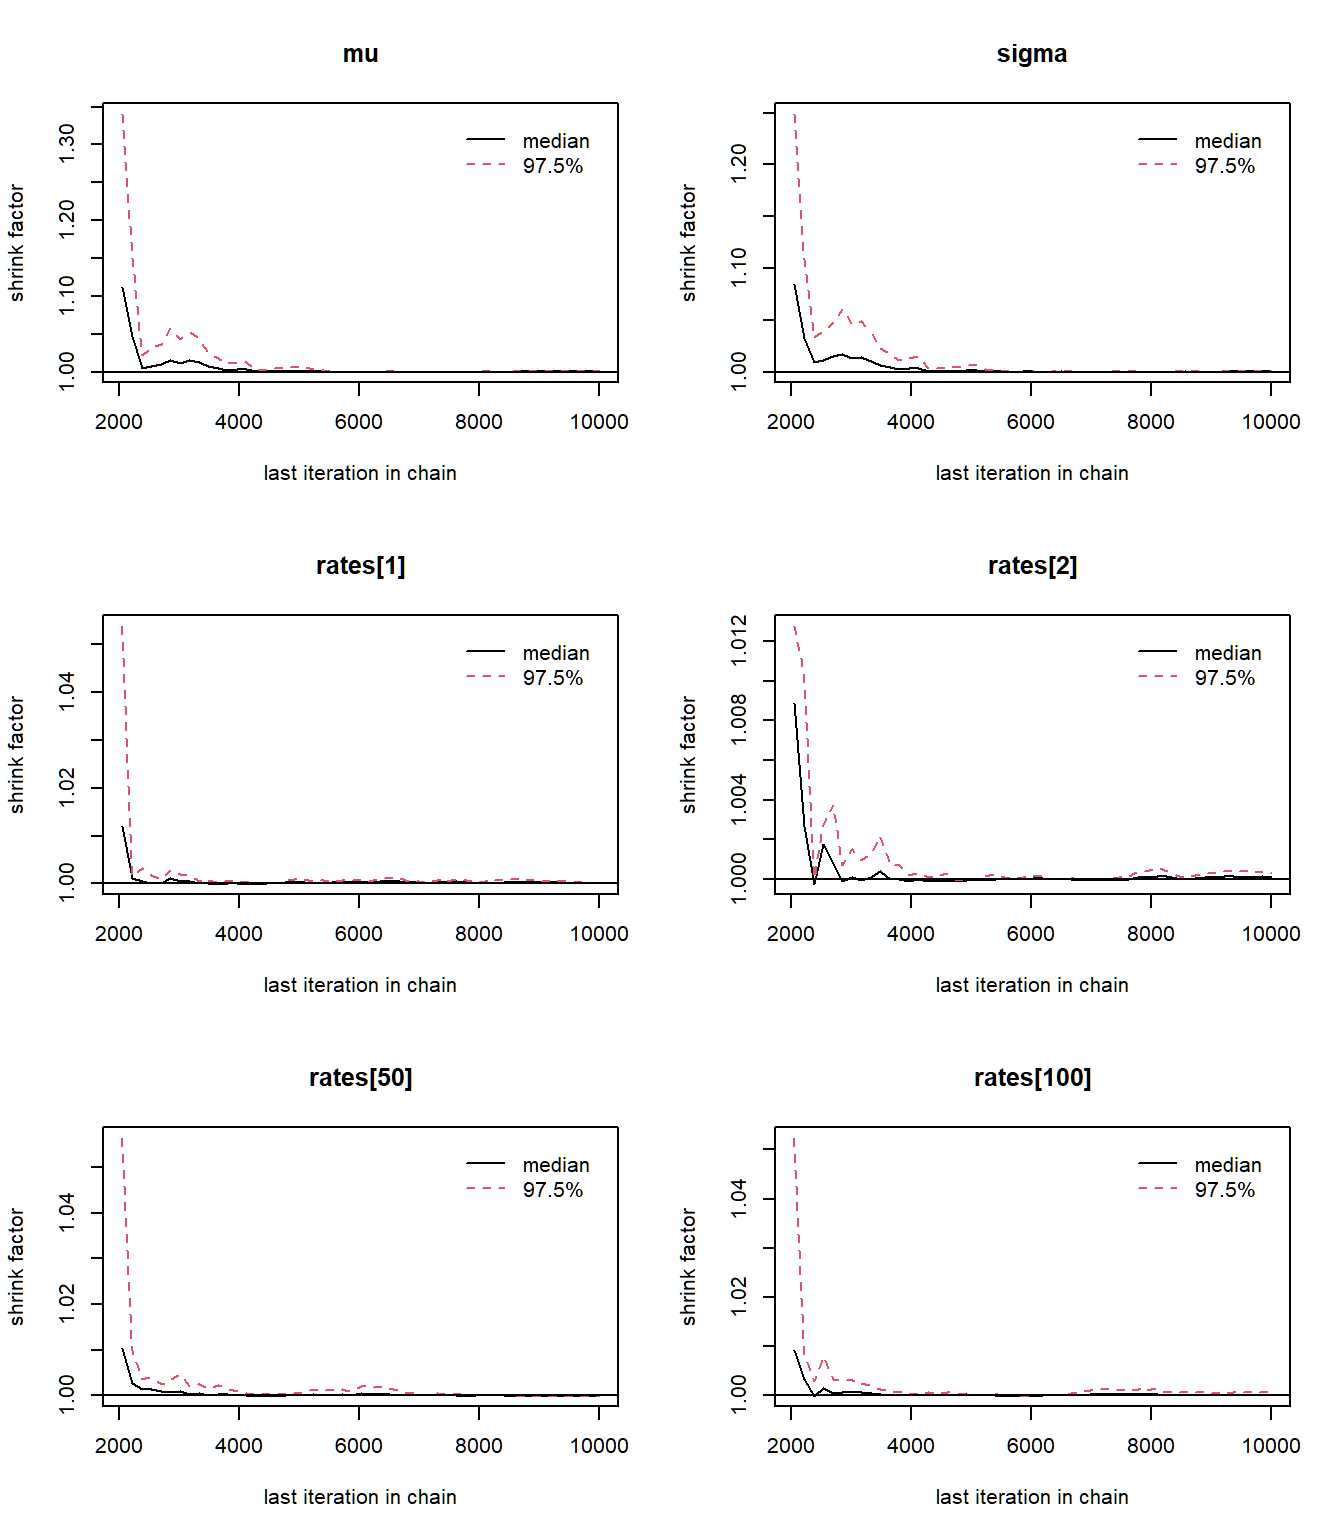
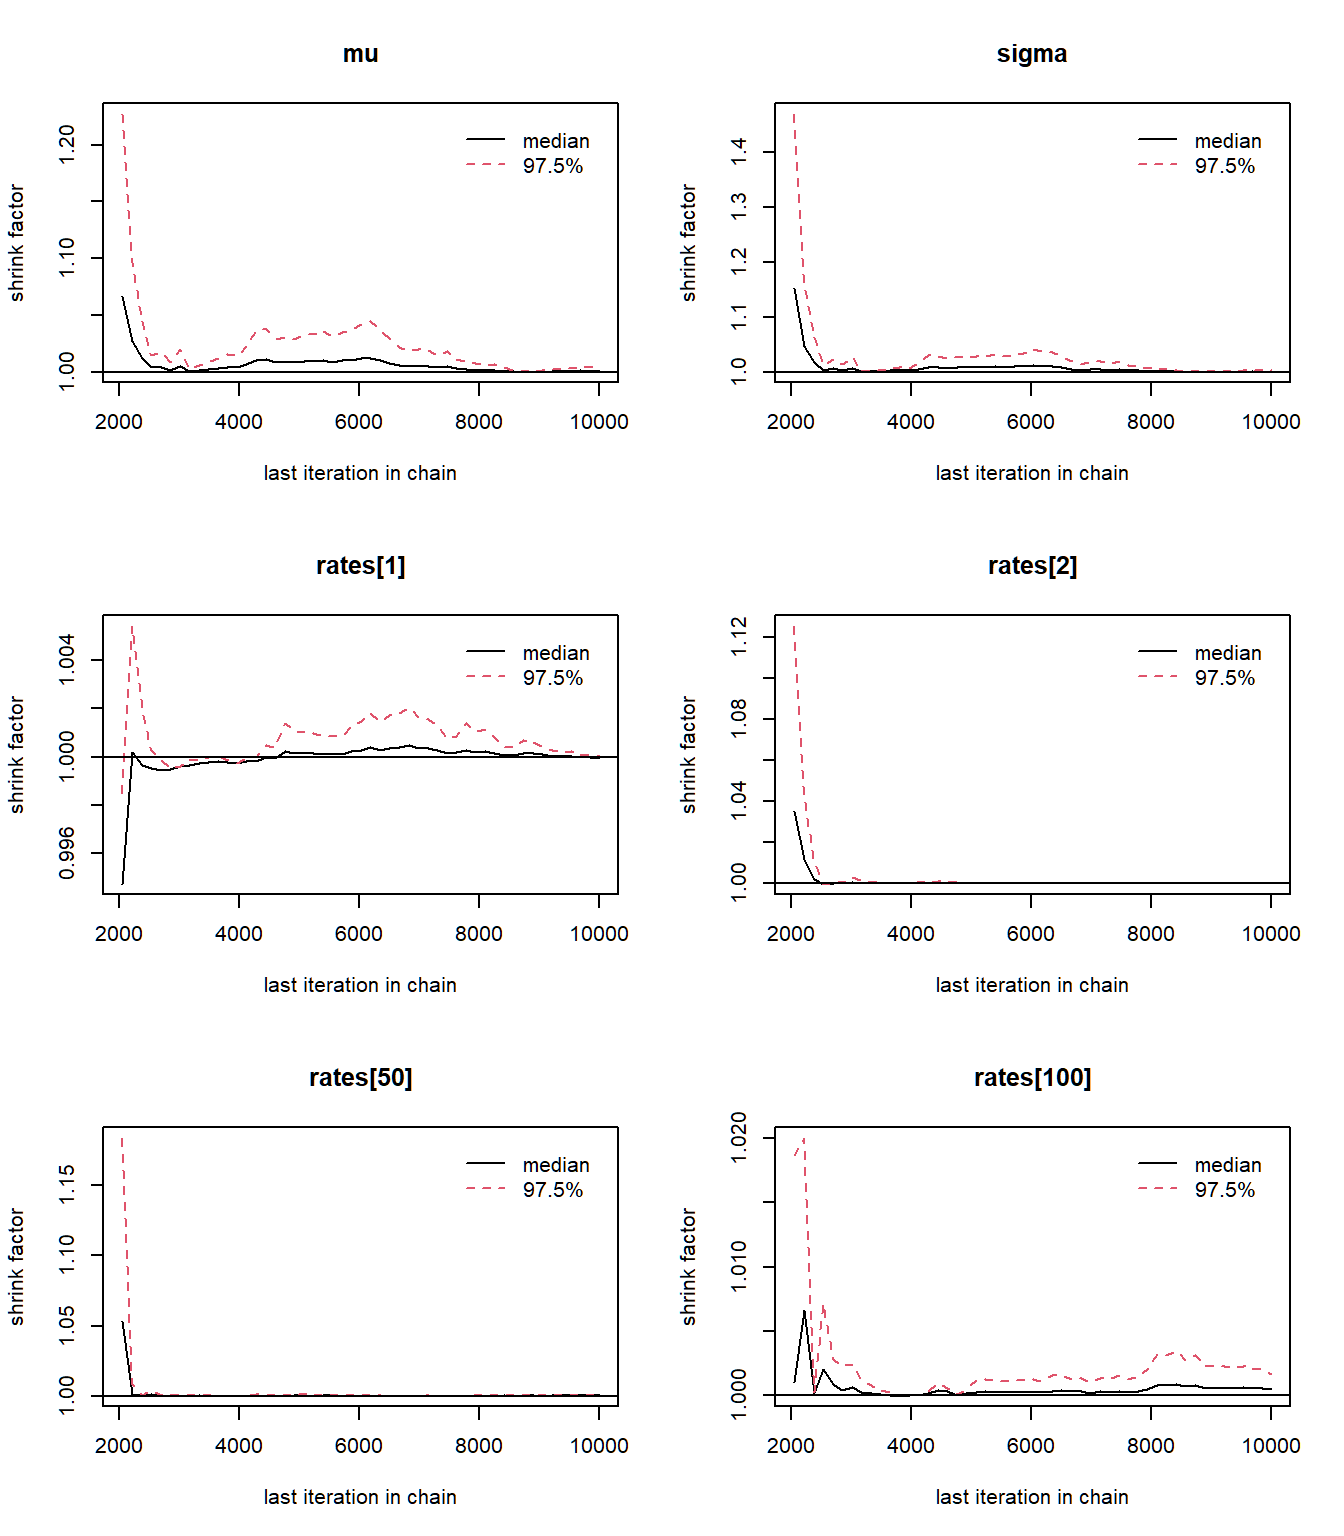
underreport

diff --git a/docs/blogs/AE Counts/AE Underreporting reveal JS.html b/docs/blogs/AE Counts/AE Underreporting reveal JS.html
@@ -595,51 +595,51 @@ Figure&nbsp;1: Graphical representation of the adverse event reporting model
 <tbody>
 <tr class="odd">
 <td style="text-align: left;">mu</td>
-<td style="text-align: right;">14.896269</td>
-<td style="text-align: right;">1.0214501</td>
-<td style="text-align: right;">13.003999</td>
-<td style="text-align: right;">14.846710</td>
-<td style="text-align: right;">17.024250</td>
+<td style="text-align: right;">14.865145</td>
+<td style="text-align: right;">1.0174533</td>
+<td style="text-align: right;">13.011505</td>
+<td style="text-align: right;">14.827369</td>
+<td style="text-align: right;">16.977812</td>
 <td style="text-align: right;">1</td>
-<td style="text-align: right;">3866</td>
+<td style="text-align: right;">3916</td>
 </tr>
 <tr class="even">
 <td style="text-align: left;">sigma</td>
-<td style="text-align: right;">11.156671</td>
-<td style="text-align: right;">1.0564364</td>
-<td style="text-align: right;">9.329684</td>
-<td style="text-align: right;">11.078587</td>
-<td style="text-align: right;">13.466712</td>
+<td style="text-align: right;">11.126217</td>
+<td style="text-align: right;">1.0420494</td>
+<td style="text-align: right;">9.287506</td>
+<td style="text-align: right;">11.051209</td>
+<td style="text-align: right;">13.366332</td>
 <td style="text-align: right;">1</td>
-<td style="text-align: right;">3798</td>
+<td style="text-align: right;">3832</td>
 </tr>
 <tr class="odd">
 <td style="text-align: left;">rates[1]</td>
-<td style="text-align: right;">3.199235</td>
-<td style="text-align: right;">1.2388734</td>
-<td style="text-align: right;">1.255591</td>
-<td style="text-align: right;">3.038364</td>
-<td style="text-align: right;">6.074031</td>
+<td style="text-align: right;">3.205302</td>
+<td style="text-align: right;">1.2303922</td>
+<td style="text-align: right;">1.258579</td>
+<td style="text-align: right;">3.056531</td>
+<td style="text-align: right;">6.029009</td>
 <td style="text-align: right;">1</td>
-<td style="text-align: right;">23711</td>
+<td style="text-align: right;">24441</td>
 </tr>
 <tr class="even">
 <td style="text-align: left;">rates[2]</td>
-<td style="text-align: right;">3.057433</td>
-<td style="text-align: right;">0.6175904</td>
-<td style="text-align: right;">1.975681</td>
-<td style="text-align: right;">3.016547</td>
-<td style="text-align: right;">4.389065</td>
+<td style="text-align: right;">3.060811</td>
+<td style="text-align: right;">0.6133531</td>
+<td style="text-align: right;">1.976420</td>
+<td style="text-align: right;">3.016414</td>
+<td style="text-align: right;">4.391981</td>
 <td style="text-align: right;">1</td>
 <td style="text-align: right;">24000</td>
 </tr>
 <tr class="odd">
 <td style="text-align: left;">rates[3]</td>
-<td style="text-align: right;">6.051234</td>
-<td style="text-align: right;">1.6840769</td>
-<td style="text-align: right;">3.203455</td>
-<td style="text-align: right;">5.899897</td>
-<td style="text-align: right;">9.719117</td>
+<td style="text-align: right;">6.048795</td>
+<td style="text-align: right;">1.7103338</td>
+<td style="text-align: right;">3.196660</td>
+<td style="text-align: right;">5.888936</td>
+<td style="text-align: right;">9.888967</td>
 <td style="text-align: right;">1</td>
 <td style="text-align: right;">24000</td>
 </tr>
@@ -679,58 +679,58 @@ Figure&nbsp;1: Graphical representation of the adverse event reporting model
 <tbody>
 <tr class="odd">
 <td style="text-align: right;">3030</td>
-<td style="text-align: right;">0.4749442</td>
-<td style="text-align: right;">0.2174250</td>
-<td style="text-align: right;">0.0039583</td>
+<td style="text-align: right;">0.4758644</td>
+<td style="text-align: right;">0.2185026</td>
+<td style="text-align: right;">0.0034167</td>
 <td style="text-align: left;">(0,1,2)</td>
 </tr>
 <tr class="even">
 <td style="text-align: right;">3036</td>
-<td style="text-align: right;">0.9247334</td>
-<td style="text-align: right;">0.4755211</td>
-<td style="text-align: right;">0.0124583</td>
+<td style="text-align: right;">0.9221665</td>
+<td style="text-align: right;">0.4743262</td>
+<td style="text-align: right;">0.0118333</td>
 <td style="text-align: left;">(0,1)</td>
 </tr>
 <tr class="odd">
 <td style="text-align: right;">3037</td>
-<td style="text-align: right;">1.3276611</td>
-<td style="text-align: right;">0.5098177</td>
-<td style="text-align: right;">0.0225417</td>
+<td style="text-align: right;">1.3235175</td>
+<td style="text-align: right;">0.5127629</td>
+<td style="text-align: right;">0.0202917</td>
 <td style="text-align: left;">(1,0,3)</td>
 </tr>
 <tr class="even">
 <td style="text-align: right;">3046</td>
-<td style="text-align: right;">1.6050622</td>
-<td style="text-align: right;">1.2009269</td>
-<td style="text-align: right;">0.0347083</td>
+<td style="text-align: right;">1.5993490</td>
+<td style="text-align: right;">1.2102722</td>
+<td style="text-align: right;">0.0327083</td>
 <td style="text-align: left;">(0)</td>
 </tr>
 <tr class="odd">
 <td style="text-align: right;">3035</td>
-<td style="text-align: right;">2.2491712</td>
-<td style="text-align: right;">1.0224367</td>
-<td style="text-align: right;">0.0522500</td>
+<td style="text-align: right;">2.2591444</td>
+<td style="text-align: right;">1.0327427</td>
+<td style="text-align: right;">0.0509583</td>
 <td style="text-align: left;">(0,3)</td>
 </tr>
 <tr class="even">
 <td style="text-align: right;">3032</td>
-<td style="text-align: right;">2.2570592</td>
-<td style="text-align: right;">1.0235818</td>
-<td style="text-align: right;">0.0529167</td>
+<td style="text-align: right;">2.2550195</td>
+<td style="text-align: right;">1.0260417</td>
+<td style="text-align: right;">0.0515417</td>
 <td style="text-align: left;">(3,0)</td>
 </tr>
 <tr class="odd">
 <td style="text-align: right;">3018</td>
-<td style="text-align: right;">2.6214251</td>
-<td style="text-align: right;">0.8041643</td>
-<td style="text-align: right;">0.0654583</td>
+<td style="text-align: right;">2.6190009</td>
+<td style="text-align: right;">0.8058113</td>
+<td style="text-align: right;">0.0647917</td>
 <td style="text-align: left;">(6,1,2,0)</td>
 </tr>
 <tr class="even">
 <td style="text-align: right;">3039</td>
-<td style="text-align: right;">2.7371974</td>
-<td style="text-align: right;">1.1538116</td>
-<td style="text-align: right;">0.0702500</td>
+<td style="text-align: right;">2.7303529</td>
+<td style="text-align: right;">1.1286141</td>
+<td style="text-align: right;">0.0702917</td>
 <td style="text-align: left;">(3,1)</td>
 </tr>
 </tbody>
@@ -758,7 +758,7 @@ Figure&nbsp;1: Graphical representation of the adverse event reporting model
 </section>
 <section id="other-mcmc-checks" class="level1">
 <h1>Other MCMC Checks</h1>
-<p>In the following steps we offer other due diligence check for convergence of the MCMC algorithm</p>
+<p>In the following steps we offer other due diligence checks for convergence of the MCMC algorithm</p>
 <div class="cell">
 <details class="code-fold">
 <summary>Code</summary>

diff --git a/docs/blogs.html b/docs/blogs.html
@@ -202,7 +202,7 @@ window.Quarto = {
 
 <div class="quarto-listing quarto-listing-container-default" id="listing-listing">
 <div class="list quarto-listing-default">
-<div class="quarto-post image-right" data-index="0" data-listing-date-sort="1745730000000" data-listing-file-modified-sort="1745863197614" data-listing-date-modified-sort="NaN" data-listing-reading-time-sort="11" data-listing-word-count-sort="2042">
+<div class="quarto-post image-right" data-index="0" data-listing-date-sort="1745730000000" data-listing-file-modified-sort="1745863528114" data-listing-date-modified-sort="NaN" data-listing-reading-time-sort="11" data-listing-word-count-sort="2042">
 <div class="thumbnail">
 <p><a href="./blogs/AE Counts/AE Underreporting reveal JS.html" class="no-external"></a></p><a href="./blogs/AE Counts/AE Underreporting reveal JS.html" class="no-external">
 <p class="card-img-top"><img src="blogs\AE Counts\AE-Underreporting-reveal-JS_files\figure-html\unnamed-chunk-3-1.png"  class="thumbnail-image card-img"/></p>
